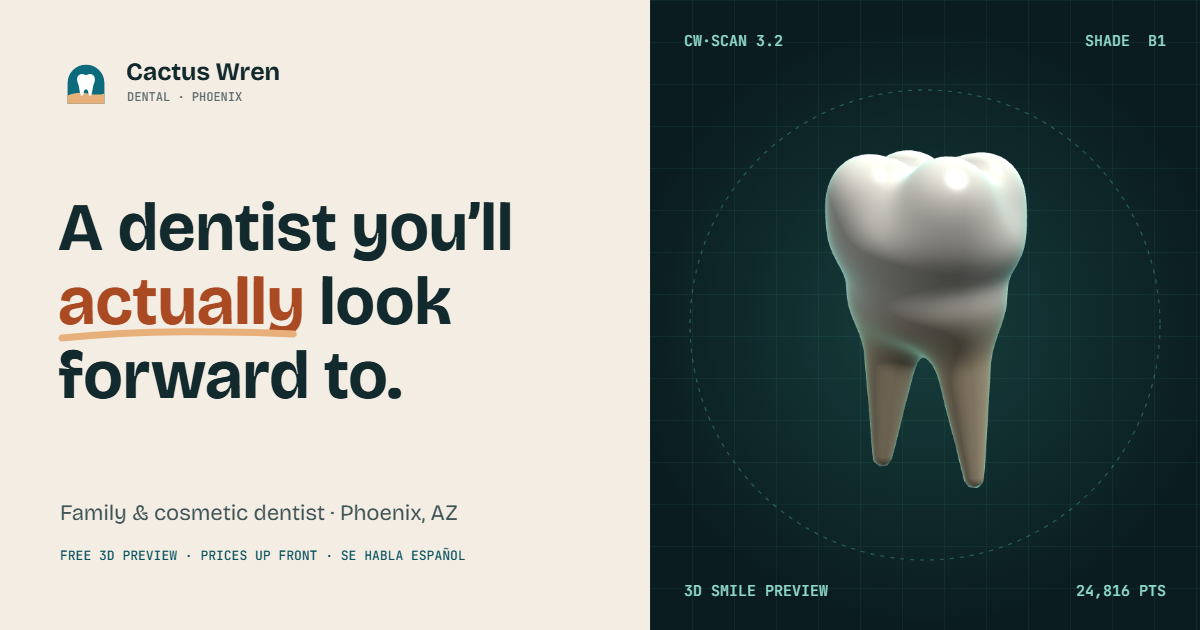
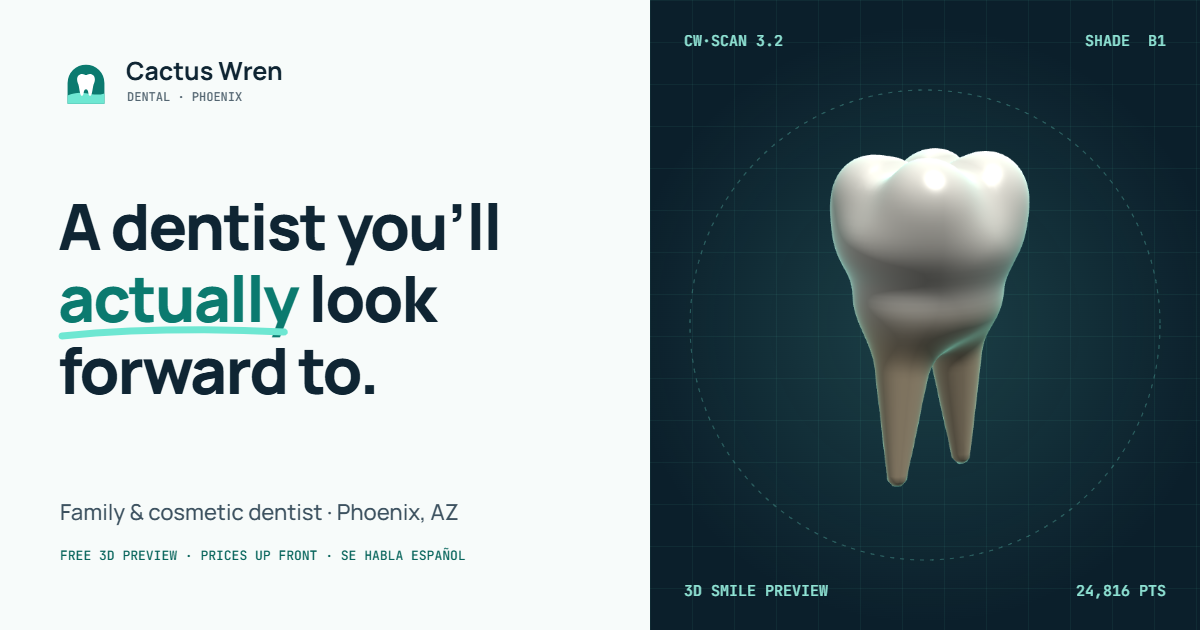
Regenerate OG image with Manrope and new palette (v=3)

diff --git a/index.html b/index.html
@@ -17,14 +17,14 @@
 <meta property="og:title" content="Cactus Wren Dental · Phoenix family &amp; cosmetic dentist">
 <meta property="og:description" content="See your new smile in 3D before you commit, with an exact price up front. Concept site designed and built by Slobodan Dabic.">
 <meta property="og:url" content="https://cactus-dental.slobodan.workers.dev/">
-<meta property="og:image" content="https://cactus-dental.slobodan.workers.dev/og-image.png?v=2">
+<meta property="og:image" content="https://cactus-dental.slobodan.workers.dev/og-image.png?v=3">
 <meta property="og:image:width" content="1200">
 <meta property="og:image:height" content="630">
 <meta property="og:image:alt" content="Cactus Wren Dental: a 3D scan of a tooth next to the headline “A dentist you’ll actually look forward to.”">
 <meta name="twitter:card" content="summary_large_image">
 <meta name="twitter:title" content="Cactus Wren Dental · Phoenix family &amp; cosmetic dentist">
 <meta name="twitter:description" content="See your new smile in 3D before you commit, with an exact price up front.">
-<meta name="twitter:image" content="https://cactus-dental.slobodan.workers.dev/og-image.png?v=2">
+<meta name="twitter:image" content="https://cactus-dental.slobodan.workers.dev/og-image.png?v=3">
 <meta name="twitter:image:alt" content="Cactus Wren Dental: a 3D scan of a tooth next to the headline “A dentist you’ll actually look forward to.”">
 
 <link rel="preload" href="fonts/manrope-latin.woff2" as="font" type="font/woff2" crossorigin>
@@ -42,7 +42,7 @@
       "name": "Cactus Wren Dental",
       "description": "Family and cosmetic dental office in Arcadia, Phoenix (concept project).",
       "url": "https://cactus-dental.slobodan.workers.dev/",
-      "image": "https://cactus-dental.slobodan.workers.dev/og-image.png?v=2",
+      "image": "https://cactus-dental.slobodan.workers.dev/og-image.png?v=3",
       "telephone": "+1-602-555-0163",
       "email": "hello@cactuswren.example",
       "priceRange": "$$",
